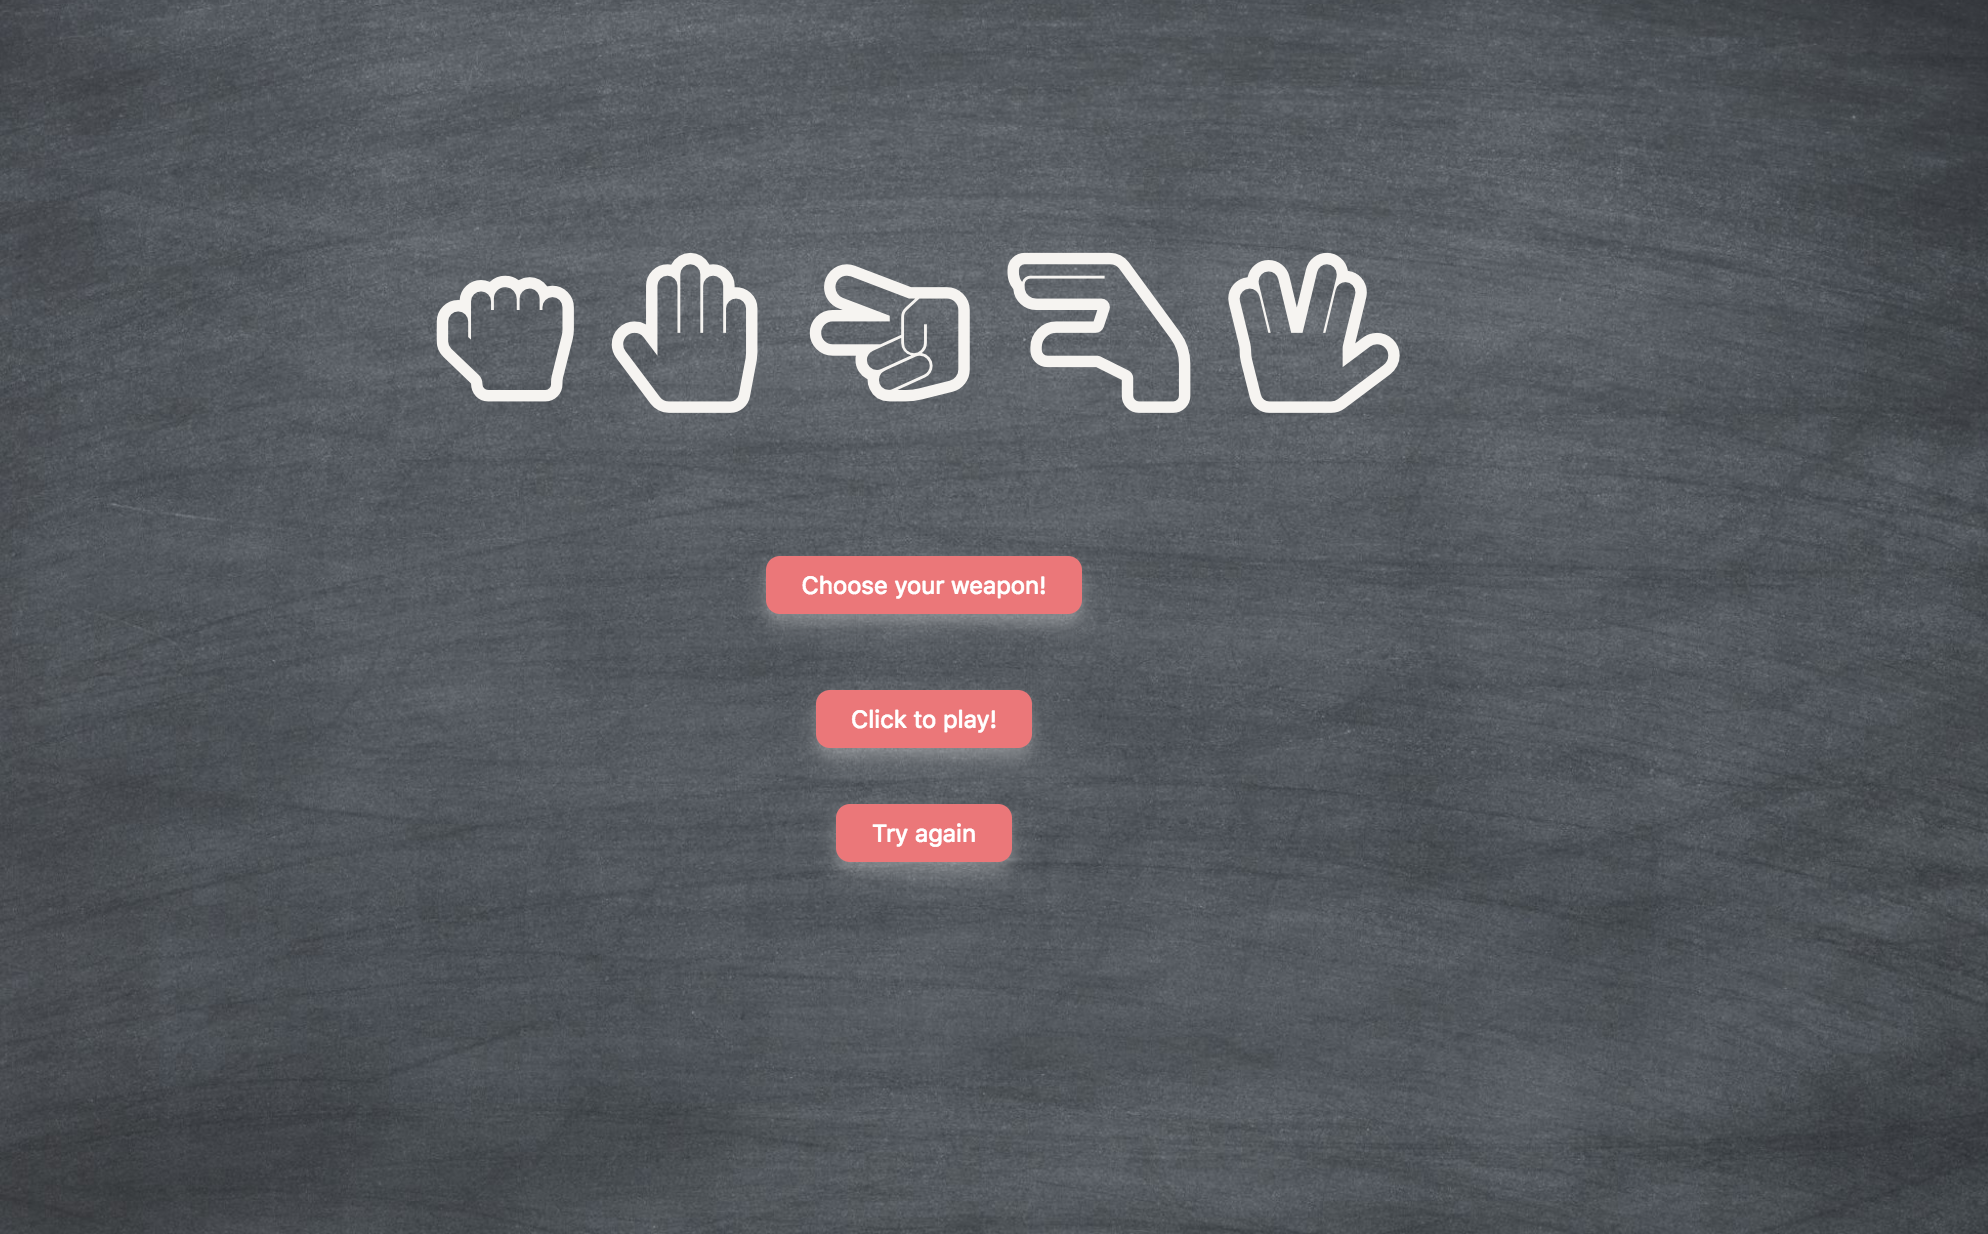
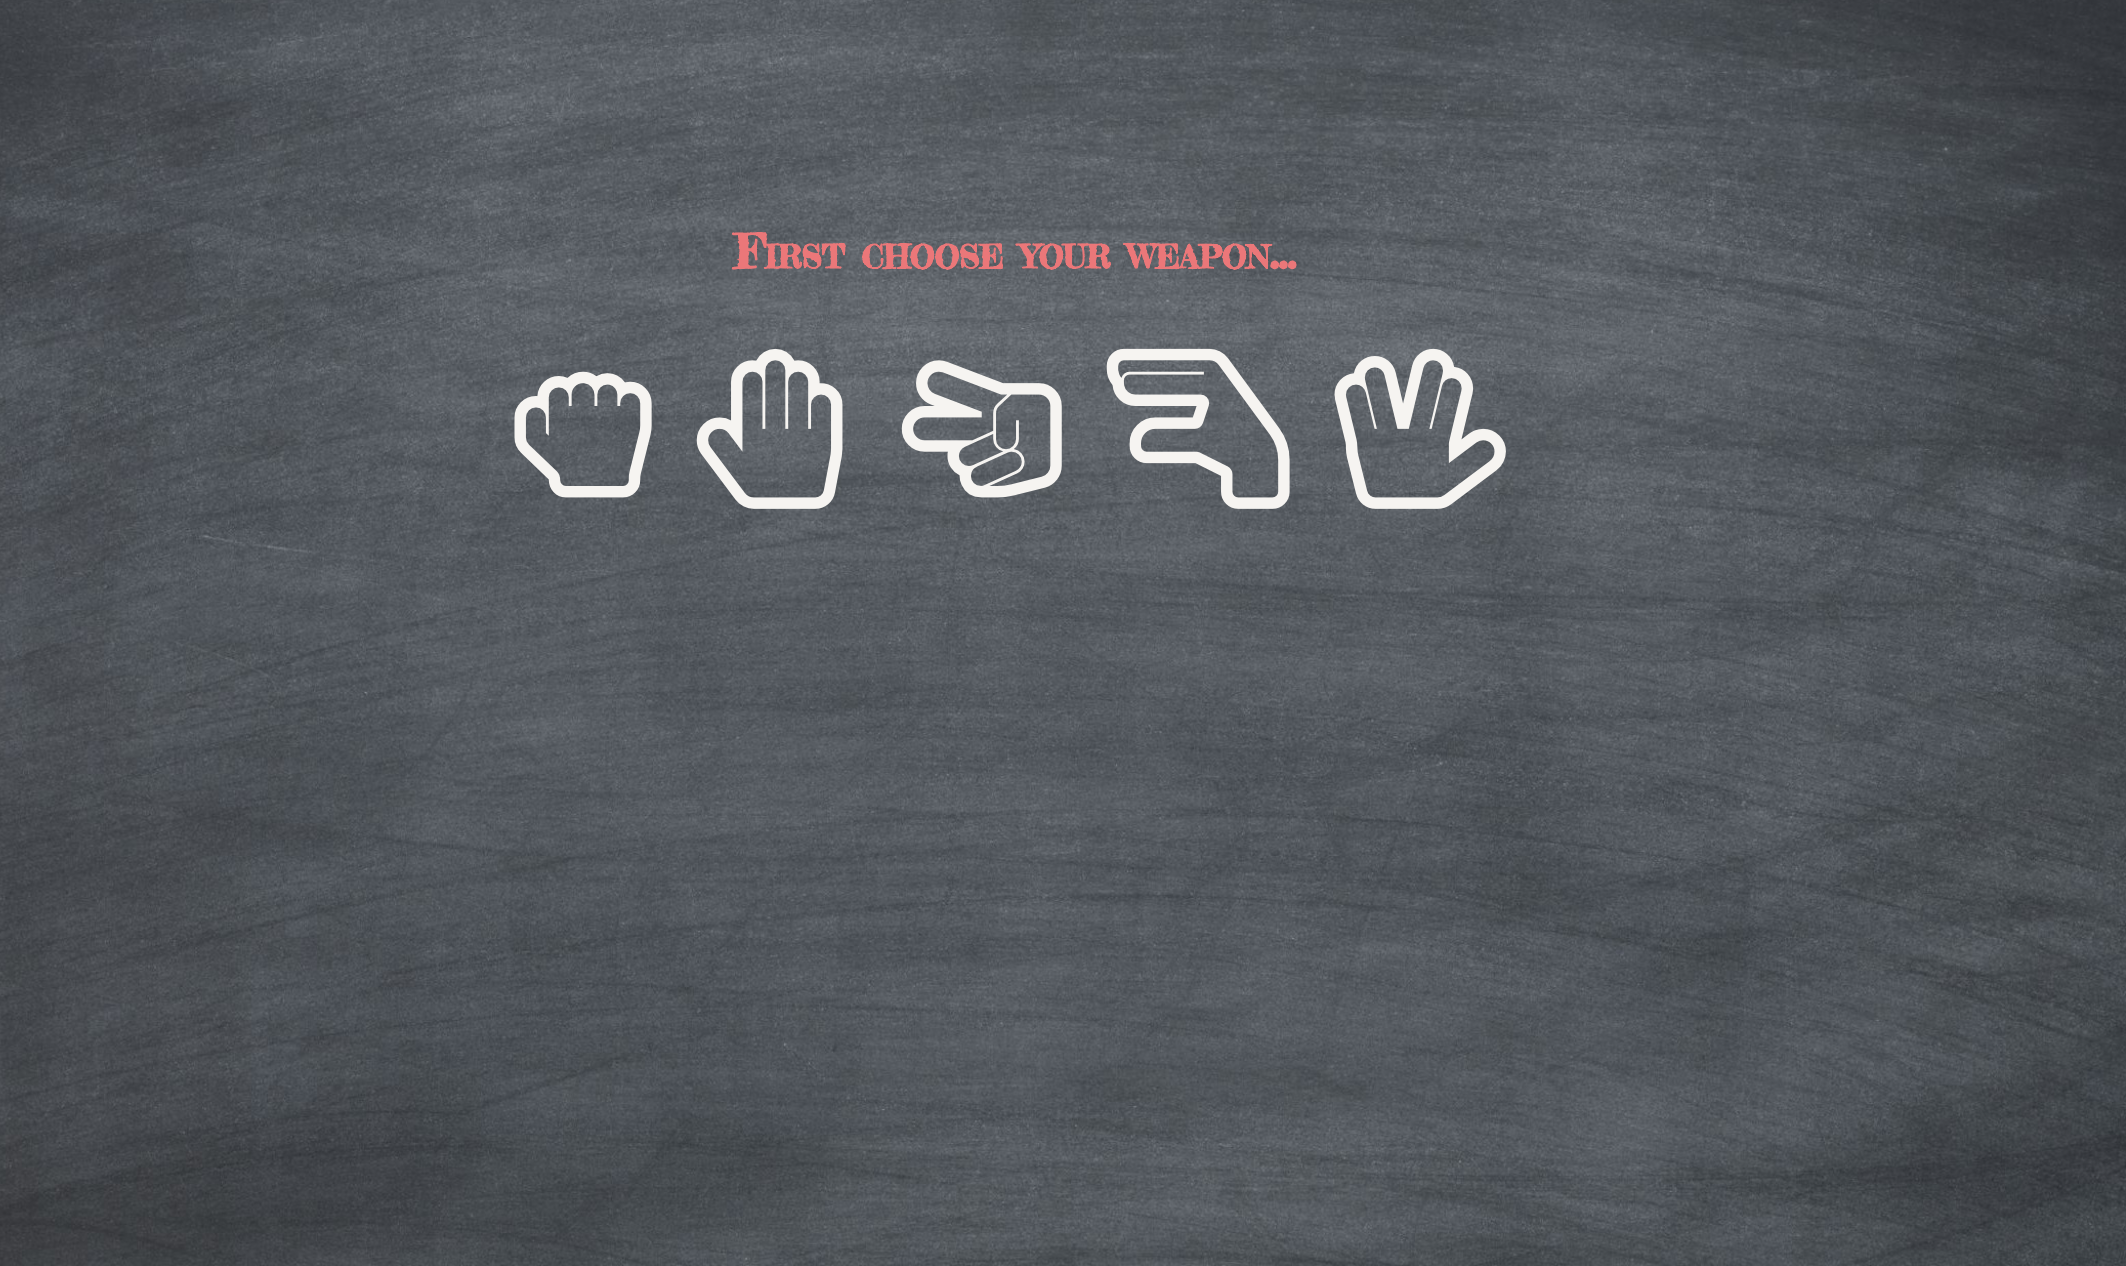
Add images of the webapp to the README

diff --git a/src/interface.js b/src/interface.js
@@ -2,6 +2,7 @@ let game = new Game();
 let movesArray = ["rock", "paper", "scissors", "lizard", "spock"];
 let move2 = movesArray[Math.floor(Math.random()* movesArray.length)];
 let userMoves = document.getElementsByClassName("astext");
+
 document.getElementById("reset-btn").style.visibility = "hidden";
 document.getElementById("submit-btn2").style.visibility = "hidden";
 document.getElementById("second-instruction").style.visibility = "hidden";

diff --git a/README.md b/README.md
@@ -4,7 +4,7 @@ Rock - Paper - Scissors - Spock - Lizard game in Javascript and Karma for the te
 
 ![RPSLS](./images/RPSLS.png?raw=true)
 
-It's easy:
+`It's easy:
 
 * "Scissors cuts paper,
 * paper covers rock,
@@ -15,9 +15,8 @@ It's easy:
 * lizard eats paper,
 * paper disproves Spock,
 * Spock vaporizes rock,
-* (and as it always has), rock crushes scissors."
+* (and as it always has), rock crushes scissors."`
 
-![Rock-Paper-Scissors-Spock-Lizard](./images/Rock-Paper-Scissors-Lizard-Spock.jpg?raw=true)
 
 ## Instructions
 
@@ -37,9 +36,20 @@ $ npm install
 $ open index.html
 ```
 - go to the browser
-- click the button `Choose your weapon!` to choose which weapon use
+- read the rules
+
+![rules](./images/rules.png?raw=true)
+- scroll down
+- click on one of the icon to choose which weapon use
+
+![1](./images/1.png?raw=true)
 - click the button `Click to play!` to start the game
+
+![2](./images/2.png?raw=true)
 - click the button `Try again` to start a new match
+
+![3](./images/3.png?raw=true)
+
 
 
 ### To run the tests
